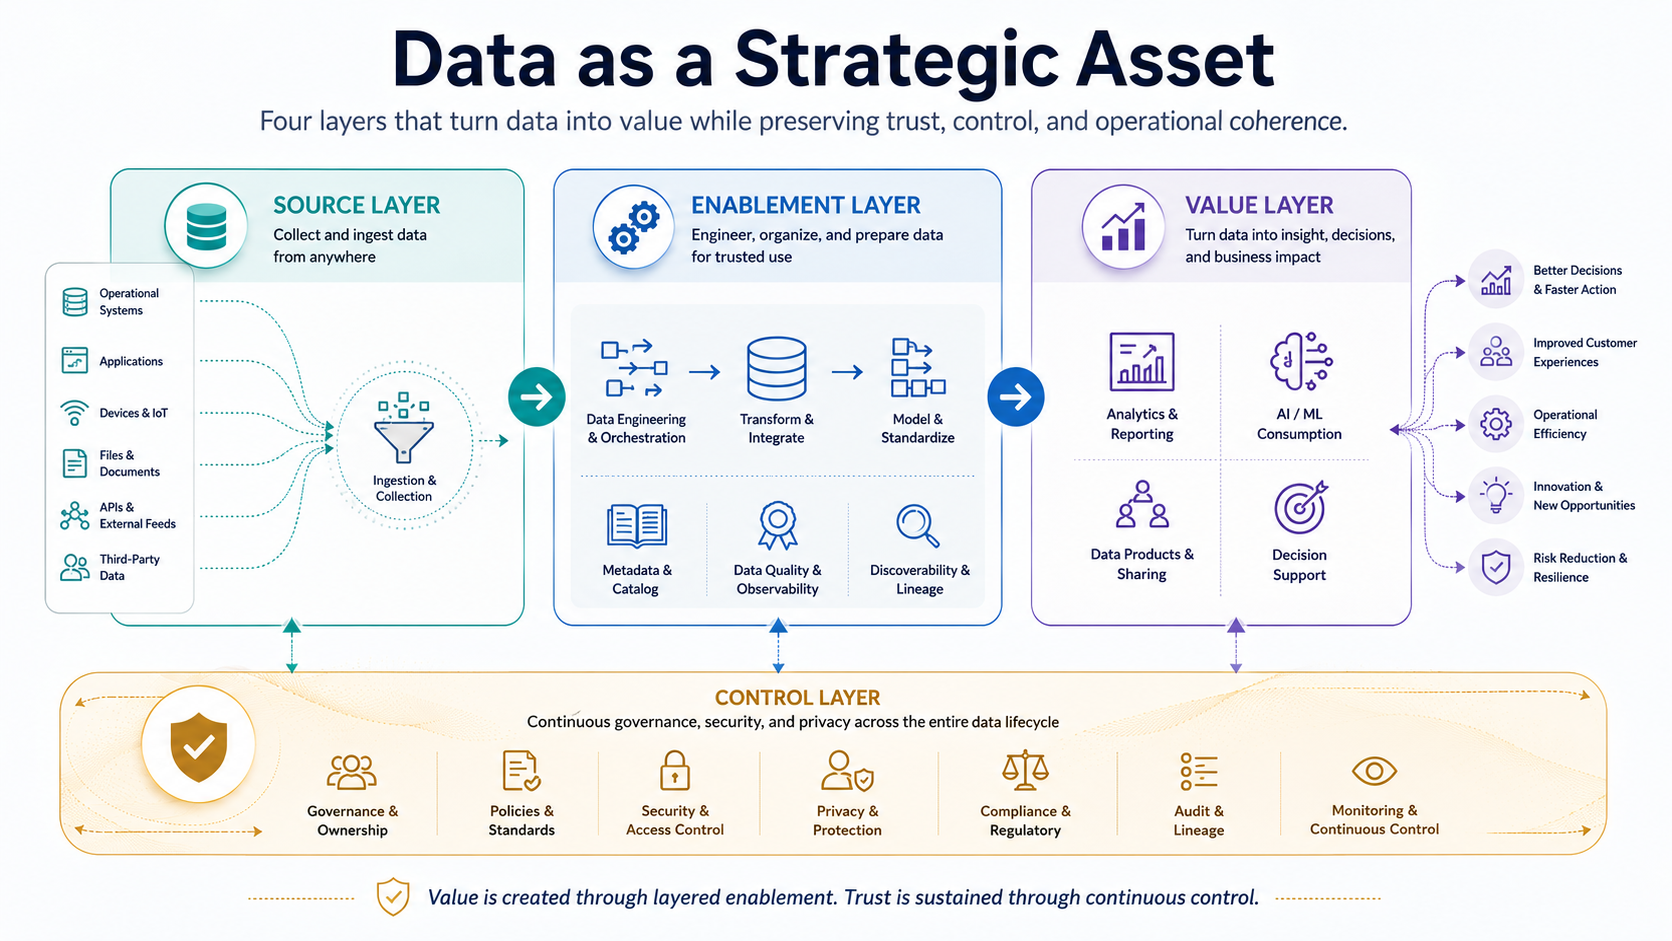
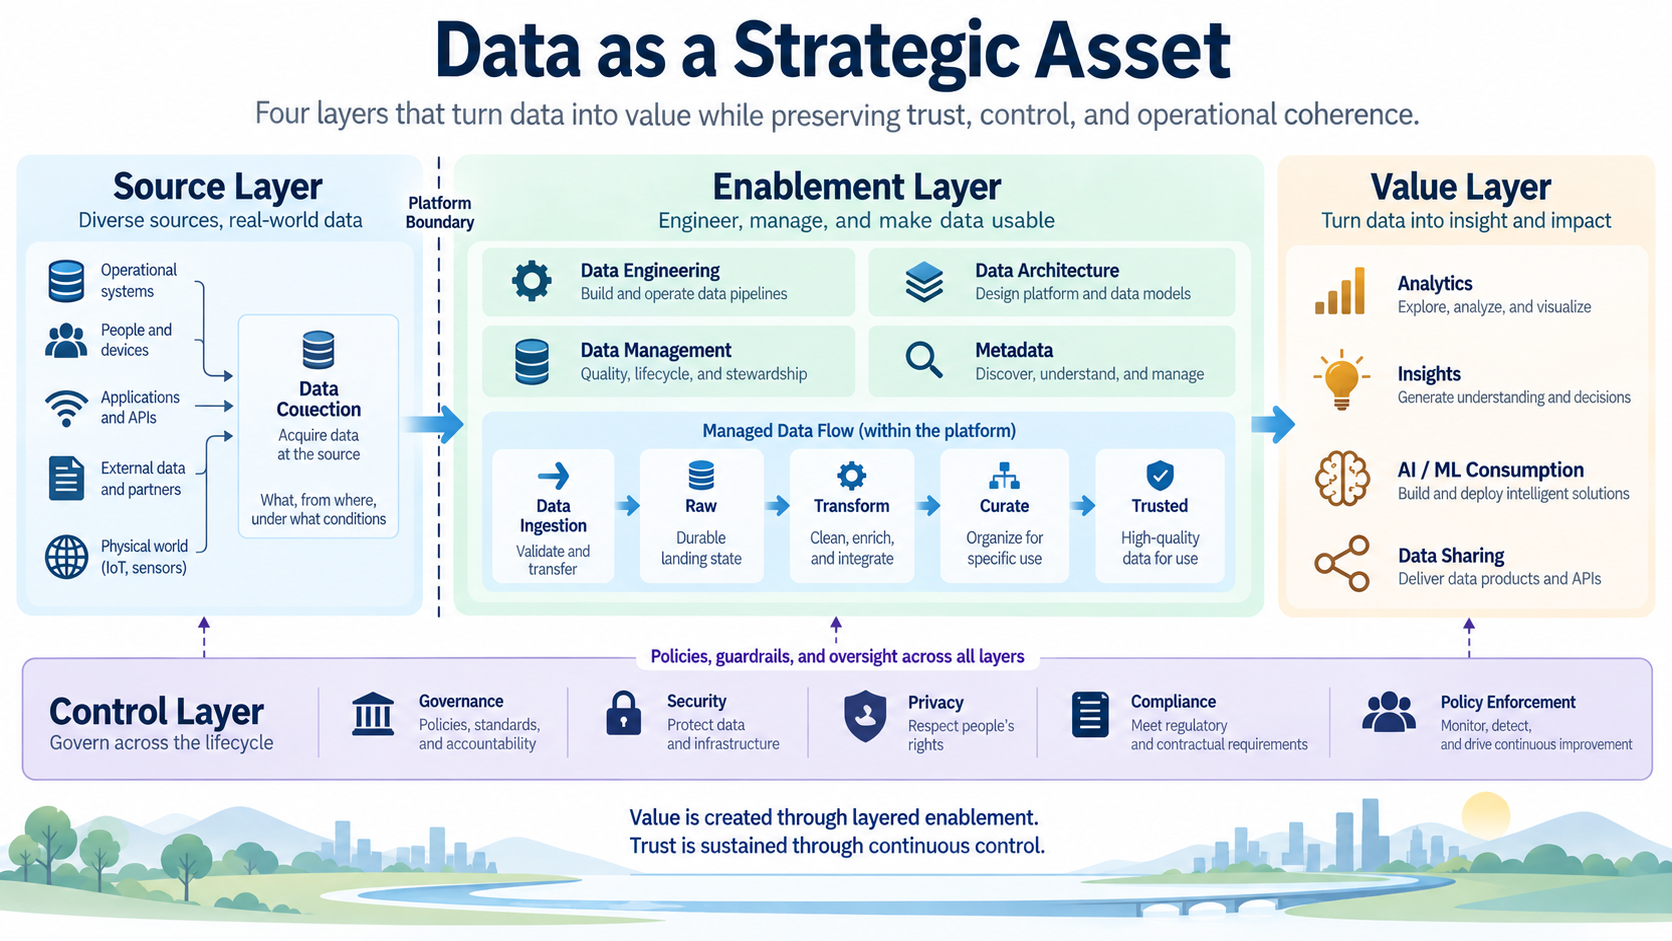
docs: update data section hero image

diff --git a/prompts/docs/data/data-hero-image.md b/prompts/docs/data/data-hero-image.md
@@ -39,34 +39,45 @@ Style:
 
 Composition:
 
-Show a layered conceptual system with four clearly distinguished zones.
-Arrange Source, Enablement, and Value from left to right as the primary capability flow so the reader can immediately understand dependency and progression.
-Place the Control Layer beneath them as a continuous foundation or underlay that supports and governs the full lifecycle.
+Show three clearly bounded upper zones—Source, Enablement, and Value—with the Control Layer as a continuous lower foundation beneath all three. Make the Enablement Layer visibly wider than Source and Value because it contains both the managed data flow and the capabilities that support it.
+
+Do not treat the three upper zones as equivalent process steps. They are responsibility areas. Show directional movement only in a dedicated data-flow lane inside and between those areas.
+
+Use the following layout hierarchy:
+
+1. **Source Layer:** Show operational systems, devices, APIs, and external feeds converging on **Data Collection**. Data Collection is the only named lifecycle activity inside Source.
+2. **Platform Boundary:** Draw a clear vertical boundary between Source and Enablement.
+3. **Enablement Layer — data-flow lane:** Place **Data Ingestion** entirely inside Enablement, immediately after the platform boundary. Continue the explicit flow as **Data Ingestion → Raw → Transform → Curate → Trusted**. These are the only boxes that form a left-to-right processing sequence.
+4. **Enablement Layer — cross-cutting capability bands:** Place **Data Engineering**, **Data Architecture**, **Data Management**, and **Metadata** as four non-sequential bands, rails, or surrounding capability blocks that span or support the whole Enablement data-flow lane. Do not align each capability one-to-one with Ingestion, Raw, Transform, Curate, or Trusted. Do not put arrows between these capability labels.
+5. **Value Layer:** After Trusted, show outcomes such as Analytics, Insights, AI / ML Consumption, and Data Sharing. These are value uses, not additional Enablement processing states.
+6. **Control Layer:** Place Governance, Security, Privacy, Compliance, and Policy Enforcement in one continuous foundation beneath Source, Enablement, and Value, with subtle upward connections across the lifecycle.
 
 Depict the layers as:
 
-- Source Layer - data collection, ingestion, external feeds, operational systems, devices, APIs
-- Enablement Layer - data engineering, platform foundations, architecture, metadata, quality, transformation
+- Source Layer - operational systems, devices, APIs, external feeds, and data collection; do not place data ingestion inside this zone
+- Enablement Layer - data ingestion followed by the raw, transform, curate, and trusted flow; supported across the full flow by data engineering, data architecture, data management, metadata, quality, orchestration, and platform foundations
 - Value Layer - analytics, insight generation, dashboards, AI or ML consumption, data sharing
 - Control Layer - governance, security, privacy, compliance, policy enforcement
 
-Make Source, Enablement, and Value feel like a left-to-right dependency chain where each stage builds on the previous one.
+Make Source, Enablement, and Value feel like connected responsibility areas, while keeping the processing arrows confined to the dedicated data-flow lane.
 Represent the Control Layer as a persistent trust and policy framework beneath all three, with visual connections upward into each stage rather than as an isolated fourth column.
 
-Use directional cues such as arrows, flows, or subtle motion lines to show that data moves from left to right from acquisition to enablement to value realization.
+Use directional cues to show that data moves from collection, across the platform boundary, into ingestion, and through Raw, Transform, Curate, and Trusted before reaching value uses.
 Use overlays, boundary lines, anchored connectors, or a continuous framing band to show that control mechanisms apply throughout the lifecycle even though the Control Layer sits below the main flow.
 
 Include small but readable visual cues for:
 
-- ingestion from multiple source types
-- transformation and orchestration
+- collection from multiple source types before the platform boundary
+- ingestion inside Enablement, accepting data across the platform boundary
+- the distinct Raw → Transform → Curate → Trusted data flow
+- engineering, architecture, management, and metadata spanning that flow without appearing to be its stages
 - metadata and discoverability
 - analytics and sharing outcomes
 - governance and security guardrails
 
 Central message:
 
-Data becomes a strategic asset when organizations align collection, enablement, value creation, and control into one coherent operating model.
+Data becomes a strategic asset when organizations align collection, reliable ingestion, enablement, value creation, and control into one coherent operating model.
 
 Small caption:
 
@@ -75,6 +86,8 @@ Small caption:
 Do:
 
 - make the four layers immediately legible as a single integrated model
+- keep Data Collection inside Source and Data Ingestion entirely inside Enablement, separated by a visible platform boundary
+- distinguish the sequential Raw → Transform → Curate → Trusted flow from the non-sequential Enablement capabilities that support it
 - make the left-to-right dependency between Source, Enablement, and Value immediately clear
 - emphasize that value depends on strong enablement foundations
 - show control as cross-cutting and continuous even when it is drawn beneath the other layers
@@ -84,6 +97,8 @@ Do:
 Do not:
 
 - turn the image into a dense architecture diagram with many tiny components
+- place Data Ingestion inside Source, merge Collection and Ingestion, or imply that a landing zone is a source or collection method
+- arrange Data Engineering, Data Architecture, Data Management, or Metadata as consecutive process stages, align them one-to-one with Raw, Transform, Curate, or Trusted, or connect those capability labels with process arrows
 - depict control as an afterthought, a separate disconnected function, or merely a final downstream step
 - imply that analytics alone defines the data domain
 - overload the image with long labels or excessive text

diff --git a/content/docs/data/_index.ja.md b/content/docs/data/_index.ja.md
@@ -8,7 +8,7 @@ weight: 10
 本セクションでは、スケーラブルで信頼性が高く、コンプライアンスに適合したデータシステムを実現するための原則、アーキテクチャ、実践、運用モデルを整理します。
 取得からエンジニアリング、分析、ガバナンス、セキュリティ、価値創出に至るまで、データのライフサイクル全体を扱い、**戦略的資産としてのデータ**を管理するための指針を示します。
 
-![データ取得層、活用基盤層、価値創出層が左から右へ並び、その下に統制層が横断的に配置された、戦略的資産としてのデータの概念図](data-hero.ja.webp)
+![戦略的資産としてのデータの概念図。データ取得層の各ソースがデータ収集へ集まり、活用基盤層内のデータ取り込みから Raw、Transform、Curate、Trusted へ進み、そのフローをデータエンジニアリング、データアーキテクチャ、データマネジメント、メタデータが支え、統制層が全体に適用される](data-hero.ja.webp "戦略的資産としてのデータ")
 
 データは次のレイヤー構造として捉えられます。
 

diff --git a/content/docs/data/_index.md b/content/docs/data/_index.md
@@ -8,7 +8,7 @@ Data is a structured or unstructured representation of real-world or system-gene
 This section organizes principles, architectures, practices, and operational models that enable scalable, reliable, and compliant data systems.
 It covers the full lifecycle of data — from acquisition and engineering to analytics, governance, security, and value realization, which is required to manage **data as a strategic asset**.
 
-![Conceptual overview of data as a strategic asset, showing source, enablement, and value layers from left to right with a cross-cutting control layer beneath them](data-hero.webp)
+![Conceptual overview of data as a strategic asset: source systems converge on data collection, ingestion begins inside the enablement layer and moves data through raw, transform, curate, and trusted states, while engineering, architecture, management, and metadata support the flow and control applies across all layers](data-hero.webp "Data as a Strategic Asset")
 
 The data can be understood as a layered system:
 
